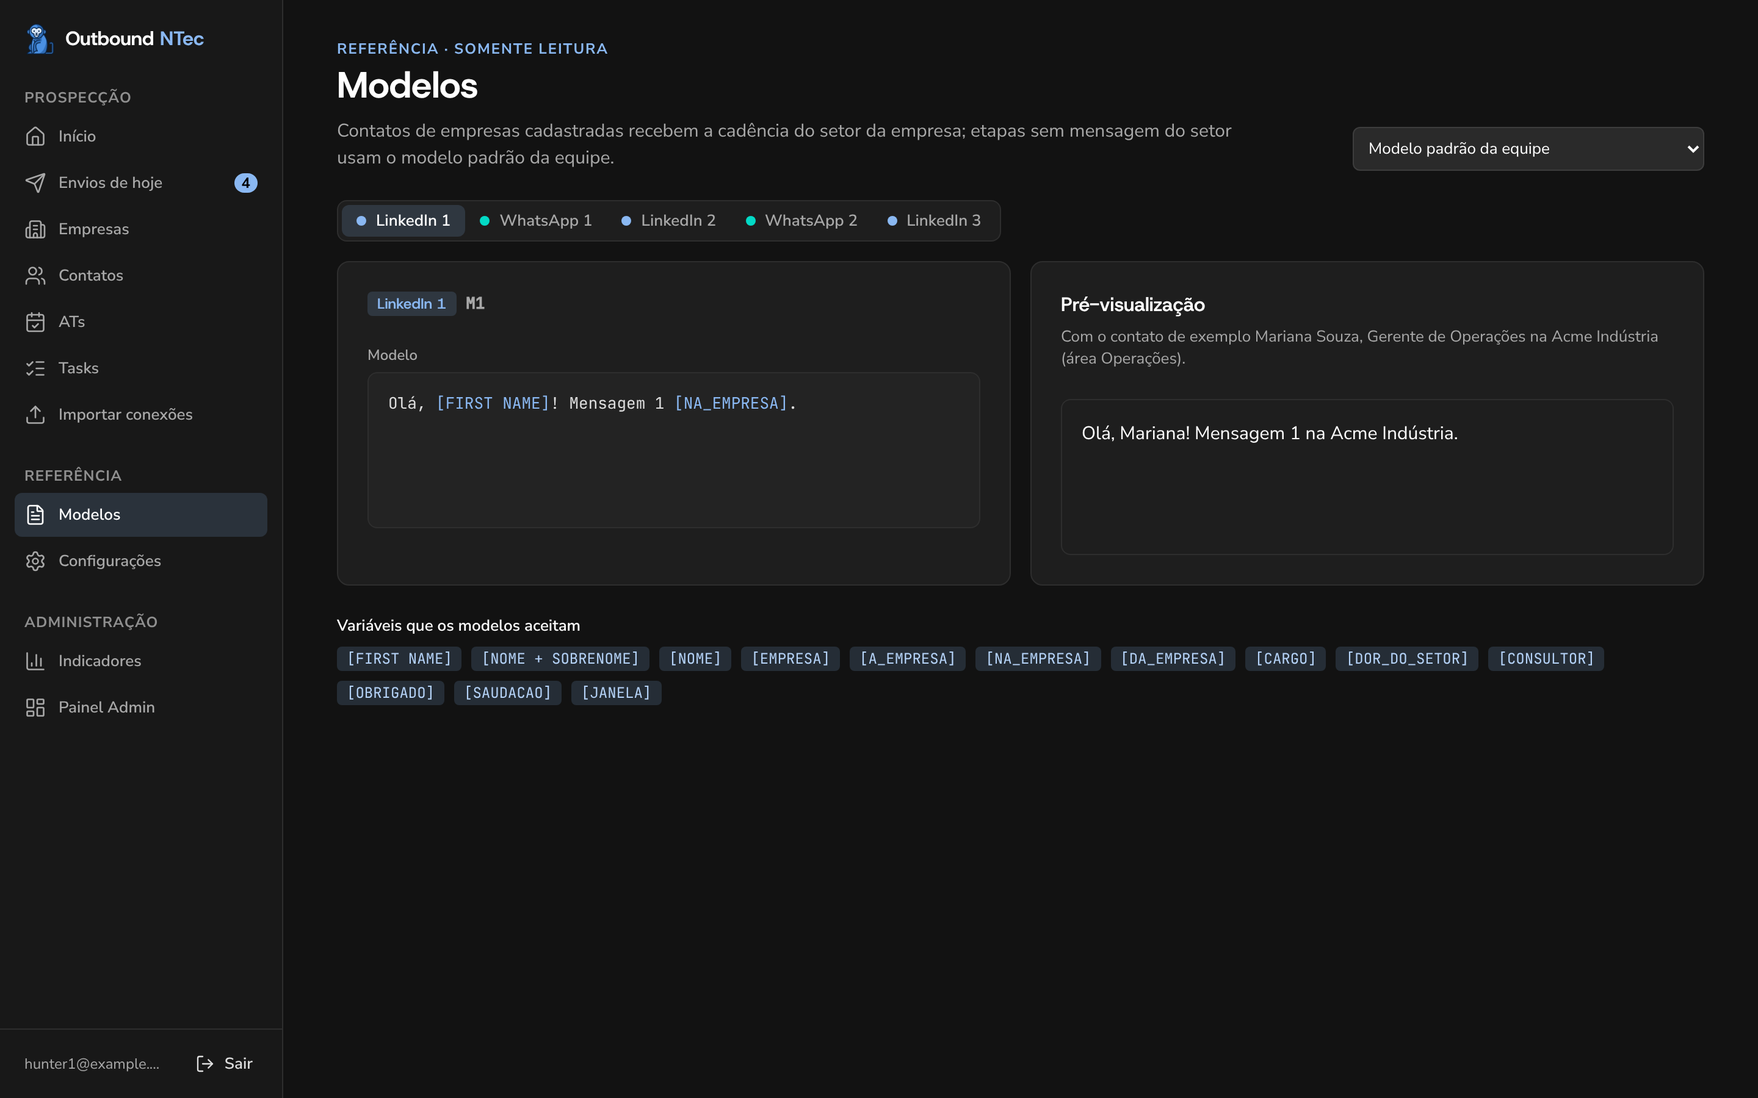
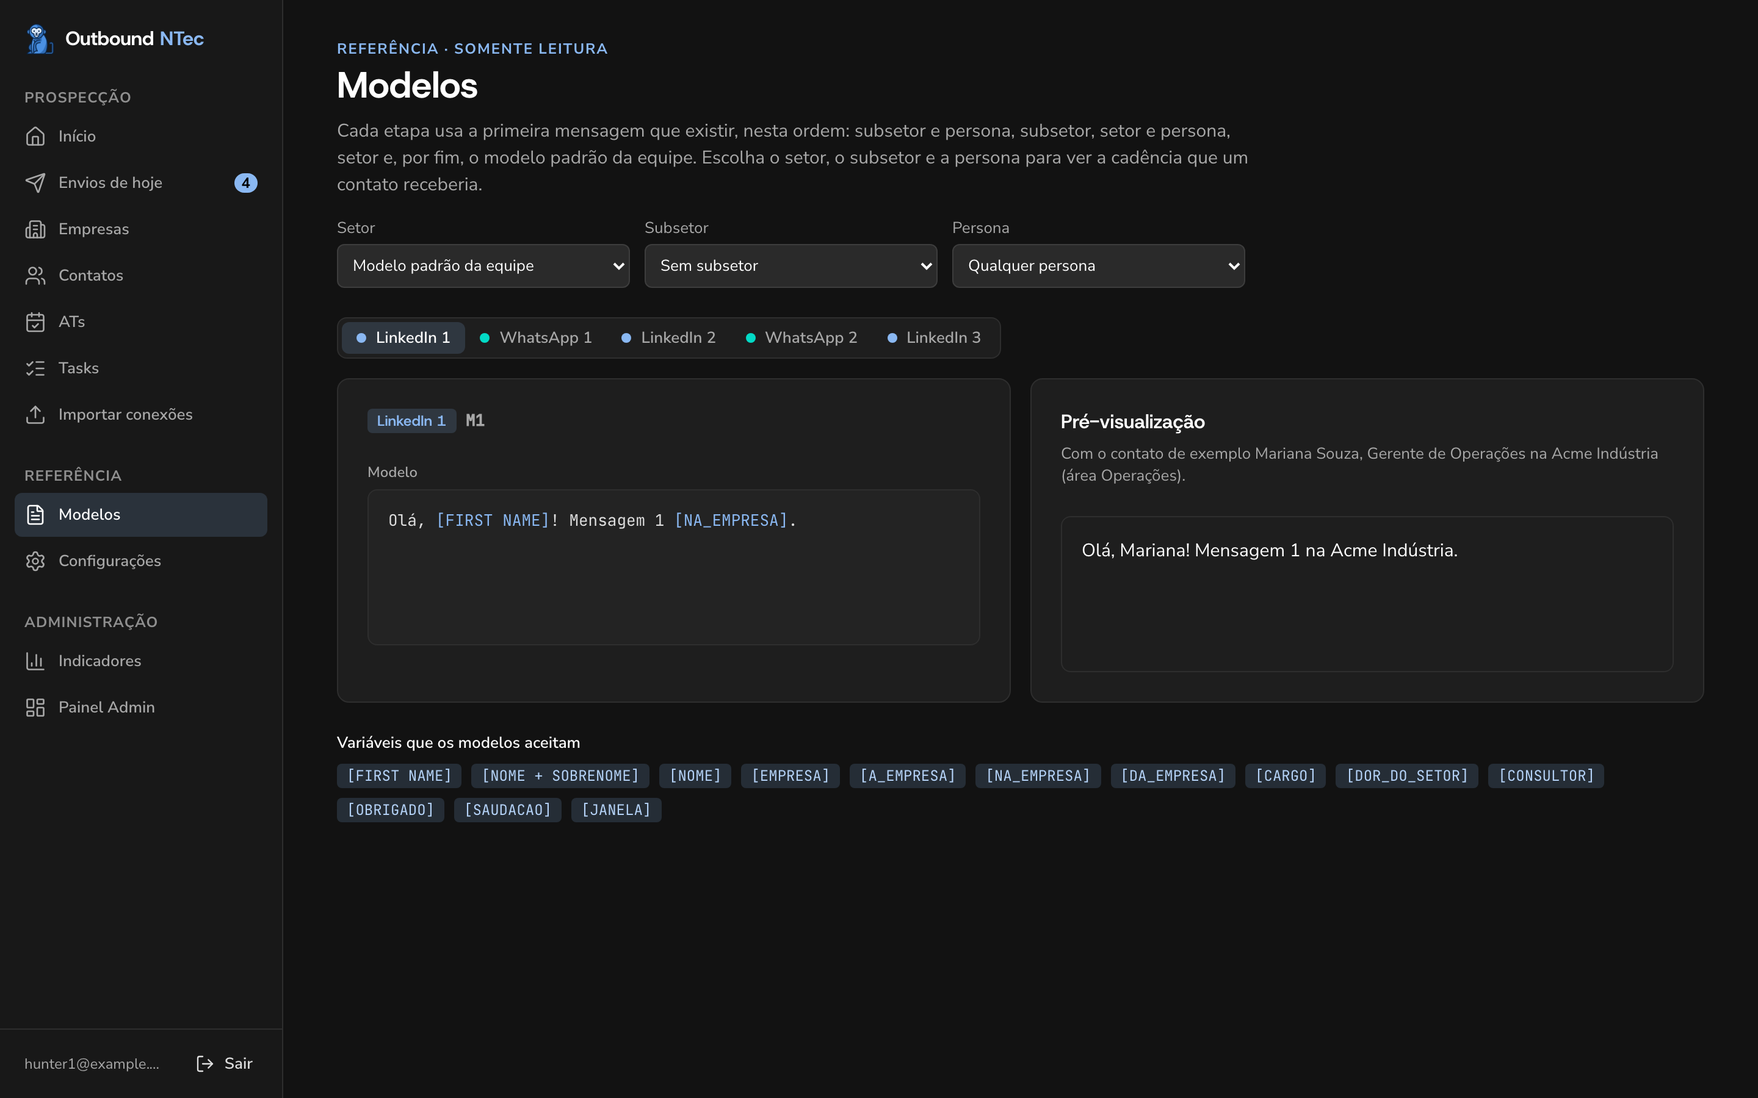
feat(modelos): escolhe setor, subsetor e persona para ver a cadência
A tela Modelos troca o seletor de cadência por três: setor, subsetor (só
os ativos do setor) e persona. As abas mostram a mensagem que sairia pela
mesma regra da fila (resolveTemplate), com o selo do nível e a origem no
cartão. Os documentos de empresas e setores e o inventário passam a
descrever as telas prontas.

diff --git a/src/routes/_authenticated/modelos.tsx b/src/routes/_authenticated/modelos.tsx
@@ -1,9 +1,11 @@
 import { createFileRoute } from "@tanstack/react-router";
 import { useState } from "react";
 import { NativeSelect } from "@/components/ui/native-select";
-import { useProfile, useSectorTemplates, useSectors, useTemplates } from "@/hooks/useCadencia";
+import { useProfile, useSectorCadences, useSectorTree, useTemplates } from "@/hooks/useCadencia";
 import { STEPS, renderTemplate } from "@/lib/cadencia";
-import { pickTemplate } from "@/lib/fila";
+import { subsectorsOf, topSectors } from "@/lib/empresas";
+import { resolveTemplate, templateOriginLabel, type TemplateLevel } from "@/lib/fila";
+import { PERSONAS, isPersona, type Persona } from "@/lib/personas";
 import { Tabs, TabsContent, TabsList, TabsTrigger } from "@/components/ui/tabs";
 import { cn } from "@/lib/utils";
 import { EXEMPLO, ModeloEtapa } from "@/components/modelos/ModeloEtapa";
@@ -29,17 +31,40 @@ export const Route = createFileRoute("/_authenticated/modelos")({
   component: Modelos,
 });
 
+/** Selo de cada aba: de onde a mensagem vem. */
+const NIVEL: Record<TemplateLevel, string> = {
+  subsetor_persona: "própria do subsetor",
+  subsetor: "própria do subsetor",
+  setor_persona: "do setor",
+  setor: "do setor",
+  padrao: "padrão",
+};
+
 function Modelos() {
   const { data: templates } = useTemplates();
   const { data: profile } = useProfile();
-  const { data: sectors } = useSectors();
-  const { data: sectorTemplates } = useSectorTemplates();
+  const { data: sectors } = useSectorTree();
+  const { data: cadences } = useSectorCadences();
   const [sectorId, setSectorId] = useState("");
+  const [subsectorId, setSubsectorId] = useState("");
+  const [persona, setPersona] = useState<Persona | "">("");
   const [tab, setTab] = useState("1");
   const hunter = {
     name: profile?.message_name?.trim() || profile?.display_name || "Seu Nome",
     gender: (profile?.gender === "f" ? "f" : "m") as "m" | "f",
   };
+
+  const all = sectors ?? [];
+  const subsectors = sectorId ? subsectorsOf(all, sectorId).filter((s) => s.active) : [];
+  const resolve = (step: (typeof STEPS)[number]) =>
+    resolveTemplate({
+      step,
+      sectorId: sectorId || null,
+      subsectorId: subsectorId || null,
+      persona: persona || null,
+      cadences,
+      defaults: templates,
+    });
 
   return (
     <div className="space-y-6">
@@ -48,31 +73,74 @@ function Modelos() {
           <p className="eyebrow">Referência · somente leitura</p>
           <h1 className="mt-1 text-title font-bold">Modelos</h1>
           <p className="mt-2 max-w-3xl text-body text-muted-foreground">
-            Contatos de empresas cadastradas recebem a cadência do setor da empresa; etapas sem
-            mensagem do setor usam o modelo padrão da equipe.
+            Cada etapa usa a primeira mensagem que existir, nesta ordem: subsetor e persona,
+            subsetor, setor e persona, setor e, por fim, o modelo padrão da equipe. Escolha o setor,
+            o subsetor e a persona para ver a cadência que um contato receberia.
           </p>
         </div>
-        <NativeSelect
-          aria-label="Cadência"
-          className="w-72"
-          value={sectorId}
-          onChange={(e) => setSectorId(e.target.value)}
-        >
-          <option value="">Modelo padrão da equipe</option>
-          {(sectors ?? [])
-            .filter((s) => s.active)
-            .map((s) => (
-              <option key={s.id} value={s.id}>
-                Setor: {s.name}
-              </option>
-            ))}
-        </NativeSelect>
+        <div className="flex flex-wrap items-end gap-3">
+          <label className="flex flex-col gap-1 text-dense text-muted-foreground">
+            Setor
+            <NativeSelect
+              aria-label="Setor"
+              className="w-60"
+              value={sectorId}
+              onChange={(e) => {
+                setSectorId(e.target.value);
+                setSubsectorId("");
+              }}
+            >
+              <option value="">Modelo padrão da equipe</option>
+              {topSectors(all)
+                .filter((s) => s.active)
+                .map((s) => (
+                  <option key={s.id} value={s.id}>
+                    {s.name}
+                  </option>
+                ))}
+            </NativeSelect>
+          </label>
+          <label className="flex flex-col gap-1 text-dense text-muted-foreground">
+            Subsetor
+            <NativeSelect
+              aria-label="Subsetor"
+              className="w-60"
+              value={subsectorId}
+              disabled={subsectors.length === 0}
+              onChange={(e) => setSubsectorId(e.target.value)}
+            >
+              <option value="">Sem subsetor</option>
+              {subsectors.map((s) => (
+                <option key={s.id} value={s.id}>
+                  {s.name}
+                </option>
+              ))}
+            </NativeSelect>
+          </label>
+          <label className="flex flex-col gap-1 text-dense text-muted-foreground">
+            Persona
+            <NativeSelect
+              aria-label="Persona"
+              className="w-60"
+              value={persona}
+              disabled={!sectorId}
+              onChange={(e) => setPersona(isPersona(e.target.value) ? e.target.value : "")}
+            >
+              <option value="">Qualquer persona</option>
+              {PERSONAS.map((p) => (
+                <option key={p.key} value={p.key}>
+                  {p.label}
+                </option>
+              ))}
+            </NativeSelect>
+          </label>
+        </div>
       </header>
 
       <Tabs value={tab} onValueChange={setTab}>
         <TabsList className="h-auto flex-wrap justify-start">
           {STEPS.map((step) => {
-            const t = pickTemplate(step, sectorId || null, sectorTemplates, templates);
+            const t = resolve(step);
             return (
               <TabsTrigger key={step.n} value={String(step.n)} className="gap-2">
                 <span
@@ -87,10 +155,10 @@ function Modelos() {
                   <span
                     className={cn(
                       "text-caption font-semibold",
-                      t.fromSector ? "text-success" : "text-subtle-foreground",
+                      t.level === "padrao" ? "text-subtle-foreground" : "text-success",
                     )}
                   >
-                    {t.fromSector ? "própria" : "padrão"}
+                    {NIVEL[t.level]}
                   </span>
                 )}
               </TabsTrigger>
@@ -98,12 +166,13 @@ function Modelos() {
           })}
         </TabsList>
         {STEPS.map((step) => {
-          const t = pickTemplate(step, sectorId || null, sectorTemplates, templates);
+          const t = resolve(step);
           return (
             <TabsContent key={step.n} value={String(step.n)}>
               <ModeloEtapa
                 step={step}
                 template={t}
+                origin={t ? templateOriginLabel(t, all) : ""}
                 sectorChosen={!!sectorId}
                 preview={t ? renderTemplate(t.body, EXEMPLO, hunter) : ""}
               />

diff --git a/e2e/modelos.spec.ts b/e2e/modelos.spec.ts
@@ -18,13 +18,95 @@ test.describe("Modelos", () => {
     page,
   }) => {
     await page.goto("/modelos");
-    await page.getByRole("combobox", { name: "Cadência" }).selectOption({ label: "Setor: Varejo" });
+    await page
+      .getByRole("combobox", { name: "Setor", exact: true })
+      .selectOption({ label: "Varejo" });
     // O Varejo só tem mensagem própria no WhatsApp 2.
-    await expect(page.getByRole("tab", { name: /^WhatsApp 2/ })).toContainText("própria");
+    await expect(page.getByRole("tab", { name: /^WhatsApp 2/ })).toContainText("do setor");
     await expect(page.getByRole("tab", { name: /^LinkedIn 1/ })).toContainText("padrão");
     await expect(page.getByText("sem mensagem do setor: usa o modelo padrão")).toBeVisible();
     await page.getByRole("tab", { name: /^WhatsApp 2/ }).click();
     await expect(page.getByLabel("Modelo WhatsApp 2")).toContainText("Cadência do varejo");
     await expect(page.getByText("VAR4")).toBeVisible();
+  });
+
+  test("Varejo com Patrocinador Executivo usa a mensagem da persona e o padrão nas outras etapas", async ({
+    page,
+  }) => {
+    await page.goto("/modelos");
+    await page
+      .getByRole("combobox", { name: "Setor", exact: true })
+      .selectOption({ label: "Varejo" });
+    await page
+      .getByRole("combobox", { name: "Persona" })
+      .selectOption({ label: "Patrocinador Executivo" });
+    const whatsapp2 = page.getByRole("tab", { name: /^WhatsApp 2/ });
+    await expect(whatsapp2).toContainText("do setor");
+    await whatsapp2.click();
+    await expect(page.getByLabel("Modelo WhatsApp 2")).toContainText("Conversa de patrocinador");
+    await expect(page.getByText("VAR4PE", { exact: true })).toBeVisible();
+    await expect(page.getByText("Varejo · Patrocinador Executivo")).toBeVisible();
+    await expect(page.getByLabel("Pré-visualização WhatsApp 2")).toContainText(
+      "Conversa de patrocinador",
+    );
+    // Etapa sem mensagem do Varejo: modelo padrão.
+    const linkedin1 = page.getByRole("tab", { name: /^LinkedIn 1/ });
+    await expect(linkedin1).toContainText("padrão");
+    await linkedin1.click();
+    await expect(page.getByLabel("Modelo LinkedIn 1")).toContainText("Mensagem 1");
+    await expect(page.getByText("M1", { exact: true })).toBeVisible();
+  });
+
+  test("Indústria com Metalurgia mostra as cinco etapas do subsetor e esconde o subsetor inativo", async ({
+    page,
+  }) => {
+    await page.goto("/modelos");
+    await page
+      .getByRole("combobox", { name: "Setor", exact: true })
+      .selectOption({ label: "Indústria" });
+    const subsetor = page.getByRole("combobox", { name: "Subsetor" });
+    await expect(subsetor.getByRole("option", { name: "Metalurgia" })).toHaveCount(1);
+    await expect(subsetor.getByRole("option", { name: "Química" })).toHaveCount(0);
+    await subsetor.selectOption({ label: "Metalurgia" });
+    const tabs = page.getByRole("tab");
+    await expect(tabs).toHaveCount(5);
+    for (let i = 0; i < 5; i++) {
+      await expect(tabs.nth(i)).toContainText("própria do subsetor");
+      await tabs.nth(i).click();
+      await expect(page.getByText(`MET${i + 1}`, { exact: true })).toBeVisible();
+    }
+    await expect(
+      page.getByRole("tabpanel").getByText("Indústria › Metalurgia · qualquer persona"),
+    ).toBeVisible();
+  });
+
+  test("trocar o setor zera o subsetor e sem setor o subsetor fica desabilitado", async ({
+    page,
+  }) => {
+    await page.goto("/modelos");
+    const setor = page.getByRole("combobox", { name: "Setor", exact: true });
+    const subsetor = page.getByRole("combobox", { name: "Subsetor" });
+    const persona = page.getByRole("combobox", { name: "Persona" });
+    await expect(subsetor).toBeDisabled();
+    await expect(persona).toBeDisabled();
+    // Setor inativo (Saúde) não aparece na lista.
+    await expect(setor.getByRole("option", { name: "Saúde", exact: true })).toHaveCount(0);
+    await setor.selectOption({ label: "Indústria" });
+    await expect(subsetor).toBeEnabled();
+    await expect(persona).toBeEnabled();
+    await subsetor.selectOption({ label: "Metalurgia" });
+    await expect(page.getByRole("tab", { name: /^LinkedIn 1/ })).toContainText(
+      "própria do subsetor",
+    );
+    await setor.selectOption({ label: "Varejo" });
+    // Varejo não tem subsetor: o select volta a "Sem subsetor" e fica desabilitado.
+    await expect(subsetor).toBeDisabled();
+    await expect(subsetor).toHaveValue("");
+    await expect(page.getByRole("tab", { name: /^LinkedIn 1/ })).toContainText("padrão");
+    await setor.selectOption({ label: "Indústria" });
+    await expect(subsetor).toHaveValue("");
+    await expect(page.getByRole("tab", { name: /^LinkedIn 1/ })).toContainText("padrão");
+    await setor.selectOption({ label: "Modelo padrão da equipe" });
+    await expect(subsetor).toBeDisabled();
   });
 });

diff --git a/src/components/modelos/ModeloEtapa.tsx b/src/components/modelos/ModeloEtapa.tsx
@@ -1,6 +1,7 @@
 import { ChannelBadge } from "@/components/StatusBadge";
 import { Card, CardContent, CardHeader, CardTitle } from "@/components/ui/card";
 import type { StepDef } from "@/lib/cadencia";
+import type { TemplateLevel } from "@/lib/fila";
 
 /** Contato fictício usado na pré-visualização dos modelos. */
 export const EXEMPLO = {
@@ -14,12 +15,15 @@ export const EXEMPLO = {
 export function ModeloEtapa({
   step,
   template: t,
+  origin,
   sectorChosen,
   preview,
 }: {
   step: StepDef;
-  template: { code: string; body: string; fromSector: boolean } | null | undefined;
-  /** Uma cadência de setor está escolhida (mostra quando a etapa cai no modelo padrão). */
+  template: { code: string; body: string; level: TemplateLevel } | null | undefined;
+  /** De onde a mensagem vem (`templateOriginLabel`), ex.: "Varejo · Patrocinador Executivo". */
+  origin: string;
+  /** Um setor está escolhido (mostra a origem e quando a etapa cai no modelo padrão). */
   sectorChosen: boolean;
   preview: string;
 }) {
@@ -31,9 +35,9 @@ export function ModeloEtapa({
             <ChannelBadge channel={step.channel}>{step.label}</ChannelBadge>
             <span className="font-mono text-dense text-muted-foreground">{t?.code}</span>
           </CardTitle>
-          {sectorChosen && t && !t.fromSector && (
+          {sectorChosen && t && (
             <span className="text-caption text-subtle-foreground">
-              sem mensagem do setor: usa o modelo padrão
+              {t.level === "padrao" ? "sem mensagem do setor: usa o modelo padrão" : origin}
             </span>
           )}
         </CardHeader>

diff --git a/docs/empresas-e-setores.md b/docs/empresas-e-setores.md
@@ -5,12 +5,12 @@ subsetor e persona (migração `20261122180804_setor_subsetor_persona.sql`).
 
 ## 0. Situação
 
-| Parte                                               | Estado                                                                                                                                                                                                                                                                                                                              |
-| --------------------------------------------------- | ----------------------------------------------------------------------------------------------------------------------------------------------------------------------------------------------------------------------------------------------------------------------------------------------------------------------------------- |
-| Empresas e setores (PR #6)                          | No `dev` e no `main`. Migração `20261113120000_companies_sectors.sql` aplicada em 13/11/2026 no Supabase `ctxsmboaqbjgslctojeq`.                                                                                                                                                                                                    |
-| Subsetor e persona: migração                        | `20261122180804_setor_subsetor_persona.sql`, aditiva, já aplicada em produção (nunca editar). As correções (pai do setor não troca, acento solto, permissões das funções de persona, mensagem só com espaços) estão em `20261122185416_endurece_subsetor_persona.sql`, que só vale depois do `bun run db:push`.                     |
-| Subsetor e persona: regras (`src/lib/`)             | `personas.ts`, `resolveTemplate` em `fila.ts` e os auxiliares de `empresas.ts`, com testes. **Envios de hoje já usa `resolveTemplate`** (com a persona efetiva), e a planilha de contatos já exporta Subsetor e Persona no fim.                                                                                                     |
-| Subsetor e persona: server functions, hooks e telas | `setores.functions.ts` (subsetor, cadência por persona, exclusão e uso) e os hooks (`useSectorTree`, `useSectorCadences`) já estão prontos. Faltam só as **telas** (Painel, Empresas, Contatos, Importar, Modelos e a persona na fila), uma por PR; até lá `useSectors` mostra só o primeiro nível e a cadência "qualquer persona". |
+| Parte                                               | Estado                                                                                                                                                                                                                                                                                                          |
+| --------------------------------------------------- | --------------------------------------------------------------------------------------------------------------------------------------------------------------------------------------------------------------------------------------------------------------------------------------------------------------- |
+| Empresas e setores (PR #6)                          | No `dev` e no `main`. Migração `20261113120000_companies_sectors.sql` aplicada em 13/11/2026 no Supabase `ctxsmboaqbjgslctojeq`.                                                                                                                                                                                |
+| Subsetor e persona: migração                        | `20261122180804_setor_subsetor_persona.sql`, aditiva, já aplicada em produção (nunca editar). As correções (pai do setor não troca, acento solto, permissões das funções de persona, mensagem só com espaços) estão em `20261122185416_endurece_subsetor_persona.sql`, que só vale depois do `bun run db:push`. |
+| Subsetor e persona: regras (`src/lib/`)             | `personas.ts`, `resolveTemplate` em `fila.ts` e os auxiliares de `empresas.ts`, com testes. **Envios de hoje já usa `resolveTemplate`** (com a persona efetiva), e a planilha de contatos já exporta Subsetor e Persona no fim.                                                                                 |
+| Subsetor e persona: server functions, hooks e telas | `setores.functions.ts` (subsetor, cadência por persona, exclusão e uso) e os hooks (`useSectorTree`, `useSectorCadences`) já estão prontos. As **telas** (Painel, Empresas, Envios de hoje, Contatos, Importar e Modelos) estão feitas nos PRs #47–#52.                                                         |
 
 ## 1. Dois conceitos que não se confundem
 
@@ -208,8 +208,8 @@ ou "Modelo padrão da equipe"). As tags são as mesmas em qualquer caso (`render
 No LinkedIn 1, a área e o cargo só são exigidos se a mensagem usar `[DOR_DO_SETOR]` ou `[CARGO]`.
 A empresa continua sempre obrigatória.
 
-A tela **Modelos** tem um seletor de cadência ("Modelo padrão da equipe" ou "Setor: ...") para o
-hunter ver o texto que vai sair.
+A tela **Modelos** tem três seletores (Setor, Subsetor e Persona) para o hunter ver o texto que vai
+sair; a mensagem de cada etapa segue a ordem de `resolveTemplate` e o selo mostra o nível.
 
 ## 4. Regras puras (`src/lib/empresas.ts`, testes em `empresas.test.ts`)
 

diff --git a/docs/redesign/inventario.md b/docs/redesign/inventario.md
@@ -412,18 +412,23 @@ filas de envio**.
 - **Quem usa:** hunter. É só leitura; o modelo padrão é editado por SQL e as cadências de setor na
   aba "Setores e cadências" do painel.
 - **Dados exibidos:** H1 "Modelos" e um parágrafo que explica que contatos de empresas cadastradas
-  recebem a cadência do setor da empresa (etapas sem mensagem do setor usam o padrão), com as
-  variáveis ([FIRST NAME], [EMPRESA],
+  recebem a primeira mensagem que existir na ordem subsetor e persona, subsetor, setor e persona,
+  setor, modelo padrão da equipe, com as variáveis ([FIRST NAME], [EMPRESA],
   [CARGO], [DOR_DO_SETOR], [NOME], [CONSULTOR], [OBRIGADO], [JANELA], [SAUDACAO]) e o contato de
   exemplo (Mariana Souza · Gerente de Operações · Acme Indústria, setor Operações). Um Card por
   `STEPS`: `ChannelBadge` + `code` (mono). Em duas colunas (a partir de `md`): **Modelo** (texto
   cru) e **Pré-visualização** (renderizada com o nome e gênero do hunter). Com um setor escolhido,
-  a etapa sem mensagem própria mostra "(sem mensagem do setor — modelo padrão)" ao lado do código.
-- **Ações:** `NativeSelect` "Cadência" (`w-72`): **"Modelo padrão da equipe"** + "Setor: {nome}" para
-  cada setor ativo. Fora isso, nada (nem copiar).
+  o cartão mostra a origem da mensagem ao lado do código (ex.: "Indústria › Metalurgia · qualquer
+  persona"), ou "sem mensagem do setor: usa o modelo padrão" quando cai no padrão. Cada aba de etapa
+  tem um selo de nível: "própria do subsetor", "do setor" ou "padrão".
+- **Ações:** três `NativeSelect` (`w-60`), cada um com rótulo visível. **Setor**: "Modelo padrão da
+  equipe" + setores ativos de primeiro nível (trocar o setor zera o subsetor). **Subsetor**: "Sem
+  subsetor" + subsetores ativos do setor; desabilitado sem setor ou sem subsetores ativos.
+  **Persona**: "Qualquer persona" + as 4 de `PERSONAS`; desabilitada sem setor. Fora isso, nada
+  (nem copiar).
 - **Estados:** carregando: "Carregando..." no corpo do modelo e pré-visualização vazia. Sem estado
   de erro.
-- **Dados:** `message_templates`, `profiles`, `sectors`, `sector_templates` (via `pickTemplate`).
+- **Dados:** `message_templates`, `profiles`, `sectors` (árvore), `sector_templates` (via `resolveTemplate`).
 - **Componentes:** `StatusBadge.tsx` (`ChannelBadge`); ui: `card`, `native-select`.
 - **Observações de UX:** a lista de variáveis fica num parágrafo corrido, sem destaque das tags no
   modelo (e não cita as tags [NA_EMPRESA], [A_EMPRESA], [DA_EMPRESA], que o editor de setores
